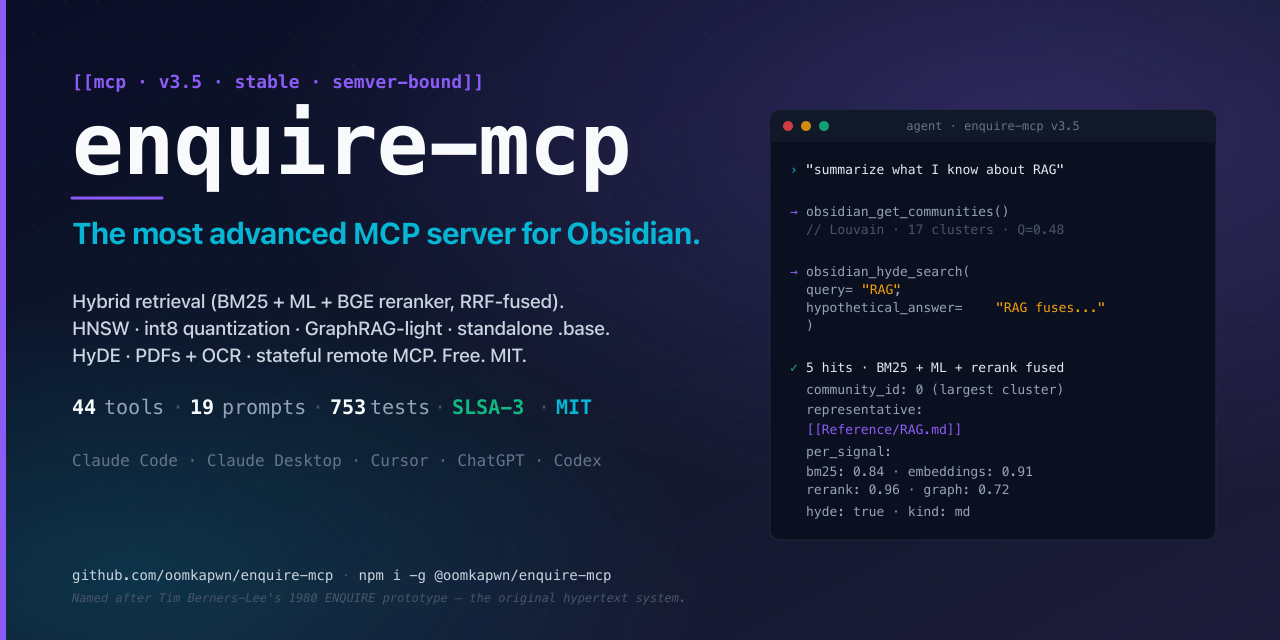
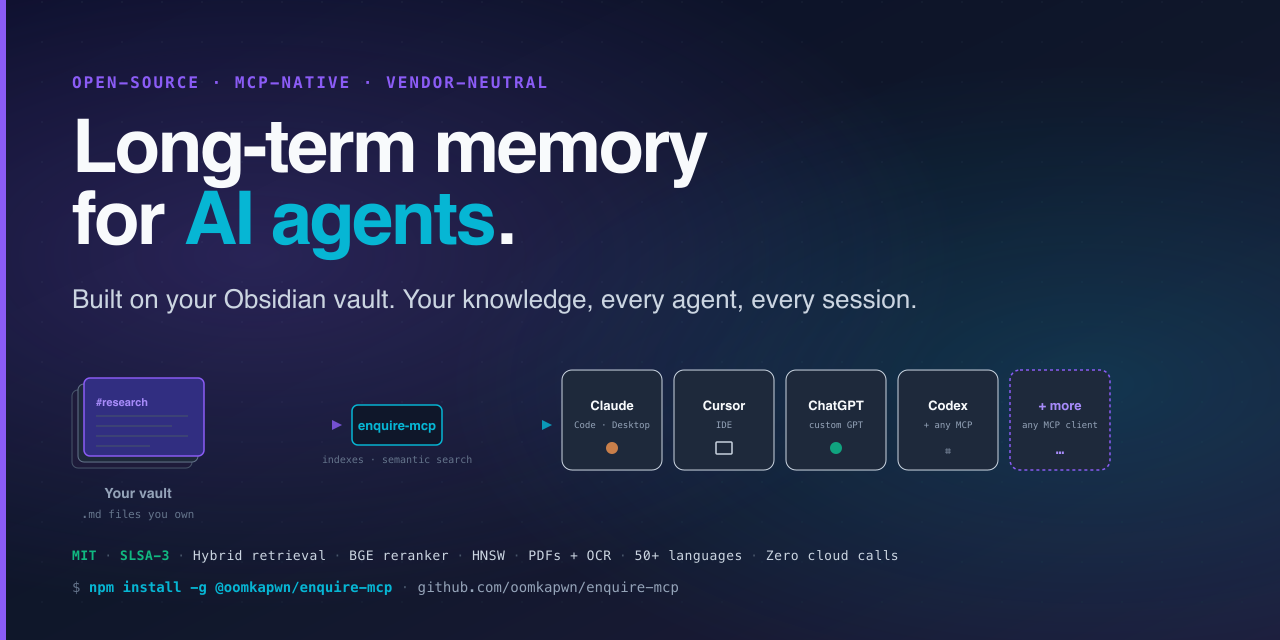
v3.7.7: visual + marketing refresh — stronger hero for first-time conversion
Zero code changes. New social-preview image + README hero rewrite that
optimizes for first-3-seconds value-prop comprehension.

Old social preview (1280×640 SVG → PNG): brand + 3-line technical
tagline + terminal mockup + drift-prone "v3.5 stable" stamp + counts
row. Engineering-trail-friendly but conversion-hostile for visitors
who don't know what "RRF fusion" or "BGE reranker" means.

New social preview: same dimensions, same dark color palette, but
reorganized for emotional value:
- Top: BIG headline "Long-term memory for AI agents." (cyan accent)
- Middle: visual flow vault → enquire-mcp chip → 5 AI agent badges
  (Claude · Cursor · ChatGPT · Codex · + more)
- Bottom: trust signals (MIT · SLSA-3 · etc) + install command
- Removed: version stamp (drift-prone), terminal mockup, counts row

README hero:
- "The problem" → "The solution" narrative replaces feature-dump
- 3-bullet differentiation block (vendor-neutral, best-in-class
  retrieval, zero cloud calls)
- Sticky nav above the fold: install / use cases / benchmarks / API
- Stable badge bumped v3.6.x → v3.7.x (stale)
- Image alt text matches new positioning
- Technical depth preserved below — visitors who want it get it

PNG regenerated via `npm run render:preview` (184.2 kB). Ships in
npm tarball per package.json#files so npm consumers see the new
image after install. GitHub viewers see it immediately on merge.

786 tests unchanged. Lint clean. tsc strict + noUncheckedIndexedAccess
[…]

diff --git a/src/index.ts b/src/index.ts
@@ -34,7 +34,7 @@ import { main } from "./cli.js";
  * + `McpServer({version})`) and `src/tool-registry.ts` (used in the
  * `vault-info` resource payload).
  */
-export const VERSION = "3.7.6";
+export const VERSION = "3.7.7";
 
 // Re-exports — preserve the v3.5.x public surface so http-transport.ts and
 // tests don't need to know about the new module layout. The set below

diff --git a/README.md b/README.md
@@ -1,37 +1,42 @@
 <div align="center">
 
-<a href="https://github.com/oomkapwn/enquire-mcp"><img src="./assets/social-preview.png" alt="enquire-mcp — the most advanced MCP server for Obsidian. Hybrid retrieval (BM25 + TF-IDF + ML embeddings via RRF), BGE cross-encoder reranking, HNSW vector index, int8 quantization, multilingual semantic search, PDFs with OCR, remote MCP. For Claude Code, Claude Desktop, Cursor, ChatGPT, Codex." width="100%"></a>
+<a href="https://github.com/oomkapwn/enquire-mcp"><img src="./assets/social-preview.png" alt="enquire-mcp — long-term memory for AI agents. Built on your Obsidian vault. Open-source, MCP-native, vendor-neutral. Hybrid retrieval, BGE reranker, HNSW, PDFs with OCR. For Claude Code, Claude Desktop, Cursor, ChatGPT, Codex." width="100%"></a>
 
 # enquire-mcp
 
 ### Long-term memory for AI agents. Built on your Obsidian vault.
 
-**The most advanced Obsidian MCP — every modern IR primitive, in one tool, for free.**
+**Stop re-explaining context to Claude, Cursor, ChatGPT every session. Your Obsidian notes become shared, searchable memory across every MCP-compatible agent — your knowledge, every model, forever yours.**
 
 [![CI](https://github.com/oomkapwn/enquire-mcp/actions/workflows/ci.yml/badge.svg)](https://github.com/oomkapwn/enquire-mcp/actions/workflows/ci.yml)
 [![npm](https://img.shields.io/npm/v/@oomkapwn/enquire-mcp.svg?label=npm&color=cb3837)](https://www.npmjs.com/package/@oomkapwn/enquire-mcp)
 [![downloads](https://img.shields.io/npm/dm/@oomkapwn/enquire-mcp.svg?color=cb3837)](https://www.npmjs.com/package/@oomkapwn/enquire-mcp)
 [![tests](https://img.shields.io/badge/tests-786%20passing-brightgreen.svg)](#trust)
-[![stable](https://img.shields.io/badge/v3.6.x-stable-brightgreen.svg)](./STABILITY.md)
+[![stable](https://img.shields.io/badge/v3.7.x-stable-brightgreen.svg)](./STABILITY.md)
 [![SLSA-3](https://img.shields.io/badge/SLSA-3-blue.svg)](https://slsa.dev/spec/v1.0/levels#build-l3)
 [![MCP](https://img.shields.io/badge/MCP-1.29-8A2BE2.svg)](https://modelcontextprotocol.io/)
 [![License](https://img.shields.io/badge/license-MIT-yellow.svg)](./LICENSE)
+
+**[⚡ 30-second install](#-quick-start) · [🧠 Use cases](#-use-cases) · [📊 Benchmarks](./docs/benchmarks.md) · [📖 API reference](https://oomkapwn.github.io/enquire-mcp/) · [💬 Compare alternatives](./docs/COMPARISON.md)**
 
 </div>
 
 ---
 
-> **First and only Obsidian-MCP that ships hybrid retrieval, cross-encoder reranking, HNSW, int8 quantization, late-chunking, HyDE, GraphRAG-light community detection, standalone `.base` query execution, PDFs + OCR, and stateful remote MCP — together. In one binary. Under MIT. SLSA-3 signed.**
->
-> **Zero outbound network calls during serve.** Embedding + reranker models cached locally (one-time `install-model` from HuggingFace). Your vault content never leaves your machine. The privacy-conscious complement to Obsidian plugins that hit cloud APIs for retrieval.
+## The problem
 
-## What it is
+Every AI session starts from zero. You re-explain your project, your design decisions, the conclusions of last week's research. Vendor "memory" features ([Claude Memory](https://www.anthropic.com/news/memory-and-tool-use), [ChatGPT Memory](https://openai.com/index/memory-and-new-controls-for-chatgpt/), Cursor memory) lock your knowledge into one provider's cloud — and forget it again when you switch tools. **Your knowledge keeps starting over.**
 
-A **production-ready MCP server** that turns your Obsidian vault into **persistent, queryable long-term memory** for any AI agent — Claude Code, Claude Desktop, Cursor, ChatGPT custom GPT, Codex, mobile MCP clients. Unlike session-scoped chat memory or proprietary cloud "memory" features, your knowledge lives in plain markdown files **you own**, indexed locally, and recalled with the full modern IR stack: **BM25 + TF-IDF + multilingual ML embeddings** fused via Reciprocal Rank Fusion (Cormack et al, 2009), reranked with a **BGE cross-encoder** (5 model options), scaled to millions of chunks via **HNSW with int8 quantization**, with blended markdown + PDF hits and `[page: N]` citations.
+## The solution
 
-Think of it as the **open-source, MCP-native, agent-grade memory layer** that complements Claude Memory / ChatGPT Memory / Cursor memory — but stores your durable knowledge in a portable, vendor-neutral format (your Obsidian vault) any agent can read.
+Your Obsidian vault becomes **persistent, queryable long-term memory** for any MCP-compatible agent. One install — your knowledge is instantly accessible from Claude Code, Claude Desktop, Cursor, ChatGPT custom GPT, Codex, and every other MCP client. Plain markdown files **you own**, indexed locally, searched with the full modern IR stack, recalled across every session and every model.
 
-**44 tools · 19 MCP prompts · 786 unit tests · 50+ languages · v3.6.x · semver-bound · MIT · SLSA-3.**
+> **Three things make enquire-mcp different**:
+> 1. **Vendor-neutral.** Your memory lives in `.md` files. Switch from Claude to Cursor — your memory comes with you.
+> 2. **Best-in-class retrieval.** Hybrid BM25 + multilingual embeddings + BGE cross-encoder reranker fused via RRF, scaled with HNSW + int8 quantization. The same IR stack a search startup would build — open-sourced, in one binary.
+> 3. **Zero cloud calls during serve.** Models cached locally (one-time download from HuggingFace). Your vault content never leaves your machine. Air-gap-safe by default.
+
+**44 tools · 19 MCP prompts · 786 unit tests · 50+ languages · v3.7.x stable · semver-bound · MIT · SLSA-3 signed.**
 
 ---
 

diff --git a/CHANGELOG.md b/CHANGELOG.md
@@ -2,6 +2,57 @@
 
 All notable changes to this project will be documented here. The format follows [Keep a Changelog](https://keepachangelog.com/en/1.1.0/), and the project adheres to [Semantic Versioning](https://semver.org/spec/v2.0.0.html).
 
+## [3.7.7] — 2026-05-16
+
+> **TL;DR:** Visual + marketing refresh. New `assets/social-preview.png` leads with the emotional value prop ("Long-term memory for AI agents") and a visual flow showing vault → enquire-mcp → 5 AI agents — replaces the previous engineering-stats-heavy preview. README hero rewritten with **"The problem / The solution"** framing + sticky nav links + a clear 3-bullet differentiation block. **Zero code changes.** 786 tests unchanged. The visual + copy hierarchy is now optimized for first-time visitor conversion (3-second value-prop comprehension); technical depth is preserved but moved below the fold.
+
+**Patch — visual + marketing refresh (no code, no behavior changes).**
+
+### Changed — social preview image
+
+**Old design**: dark-themed SVG with `enquire-mcp` brand + 3-line technical tagline + terminal mockup showing JSON tool calls + version stamp "v3.5 · stable" (drift since v3.7.x) + stats row (44 tools / 19 prompts / 786 tests).
+
+**New design**: same dimensions (1280×640) and color palette (purple/cyan/slate dark theme) but reorganized for emotional value:
+- **Top half** — big bold headline `Long-term memory for AI agents.` with `AI agents` accented in cyan; subtitle `Built on your Obsidian vault. Your knowledge, every agent, every session.`
+- **Middle row** — visual flow: stacked markdown vault → `enquire-mcp` chip → 5 AI agent badges (Claude · Cursor · ChatGPT · Codex · "+ more"). The flow tells the story in 3 seconds.
+- **Bottom strip** — trust signals (MIT · SLSA-3 · Hybrid retrieval · BGE reranker · HNSW · PDFs + OCR · 50+ languages · Zero cloud calls) + install command + repo link.
+- **Removed**: version stamp (drift-prone), terminal mockup (technical noise for first-time visitors), counts row (moved to README body for visitors who want depth).
+
+### Changed — README hero
+
+**The problem / The solution** narrative replaces the previous feature-dump opening. Visitors now see:
+1. **The problem**: "Every AI session starts from zero..." — connects to a pain point most LLM users experience.
+2. **The solution**: "Your Obsidian vault becomes persistent, queryable long-term memory..." — frames the project as the answer.
+3. **3-bullet differentiation block** in a blockquote: vendor-neutral, best-in-class retrieval, zero cloud calls.
+
+Plus new sticky nav bar above the fold: `[⚡ 30-second install] · [🧠 Use cases] · [📊 Benchmarks] · [📖 API reference] · [💬 Compare alternatives]`.
+
+**Stale stamp fixes** (incidental drift caught during the rewrite):
+- README stable badge `v3.6.x-stable` → `v3.7.x-stable` (we're past v3.7.x).
+- README image `alt` text updated to match new positioning.
+
+Technical depth (hybrid retrieval, RRF, cross-encoder, HNSW, quantization, etc.) preserved — just moved below the hero. Visitors who want depth get it; visitors who want value-prop in 3 seconds get it too.
+
+### Tests
+
+**786 tests** — unchanged from v3.7.6. No code paths touched, no test additions/removals, no coverage delta. Lint clean, `tsc` strict + `noUncheckedIndexedAccess` clean, version-consistency green at `3.7.7` (5 surfaces), all K-1 invariants green.
+
+### Migration
+
+**No-op for every consumer.** Zero code/API/behavior/schema changes. Same npm install, same wire format. The visual refresh is visible to:
+- GitHub repository visitors (README + social card on link previews) — instantly after merge
+- npm consumers (`assets/social-preview.png` ships in tarball per `package.json#files`) — after `npm install`
+
+Existing README anchors, links, and section headings preserved. The hero rewrite adds content above existing structure rather than rearranging it.
+
+### Method note
+
+Per CLAUDE.md anti-pattern *"Compressing CHANGELOG for aesthetics — audit trail trumps style"*: this patch documents WHY the visual changed, not just THAT it changed. The old design was engineering-trail-friendly (stats, version stamp, JSON mockup) but conversion-hostile for first-time visitors who don't know what "RRF fusion" or "BGE reranker" means. The new design optimizes the **first 3 seconds** of a visitor's attention while preserving 100% of the technical depth below.
+
+**Why a patch release**: `assets/social-preview.png` ships in the npm tarball per `package.json#files`. npm consumers see the new image after install. GitHub viewers see the new image + README hero immediately after merge.
+
+---
+
 ## [3.7.6] — 2026-05-16
 
 > **TL;DR:** Quality batch — closes 8 remaining audit-findings from the v3.6.2 external audit that weren't CRITICAL but were ship-ready (H-4, H-5, M-5, M-9, M-10, M-12, L-3, L-4). All fixes pure improvements: no new behavior, no breaking changes. Architectural items (H-1 HNSW filter-during-search, H-2 graph boost magnitude, H-3 watcher embeddings invalidation, M-2 HTTP transport full parity, M-7 PDF/OCR DoS resource controls, M-8 write-path TOCTOU, readOnlyHint-aware invariant) deferred to **v3.8.0 backlog** as they require architectural changes. 786 tests unchanged from v3.7.5 (2 existing tests updated to reflect M-10 signature change).
